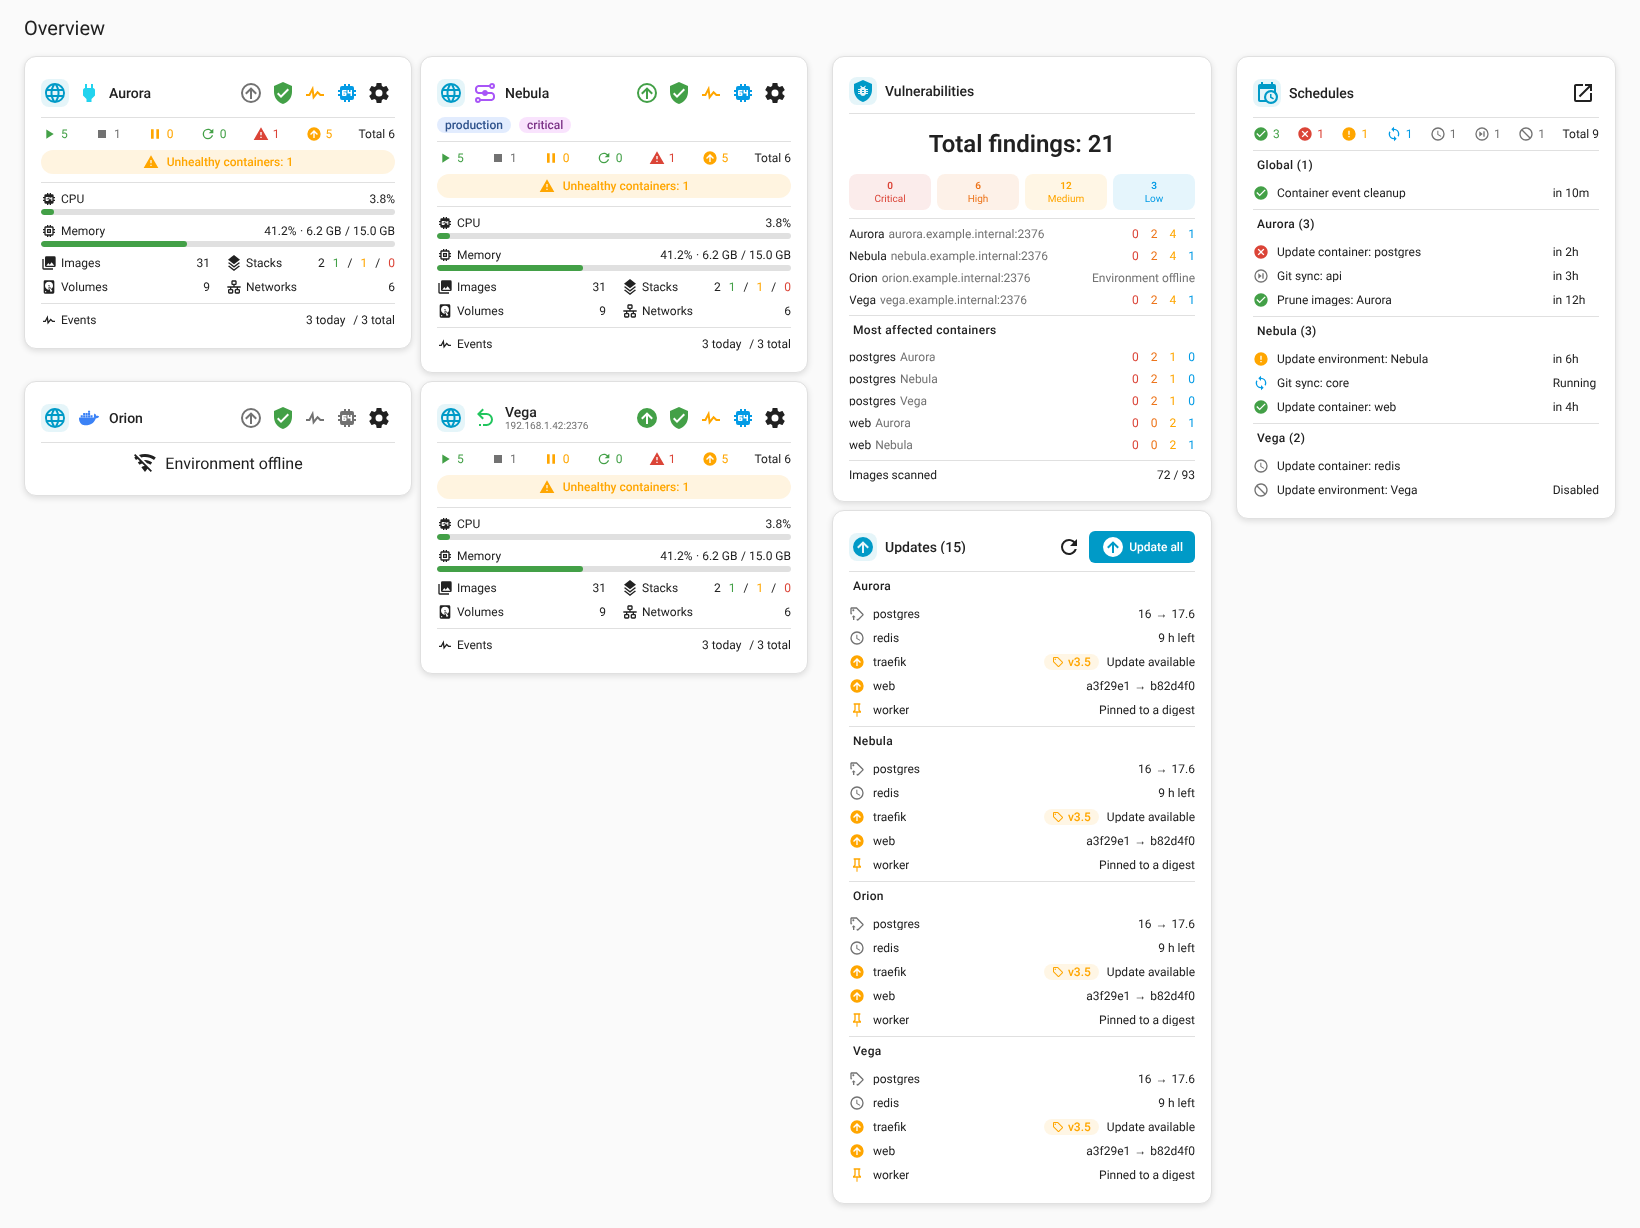
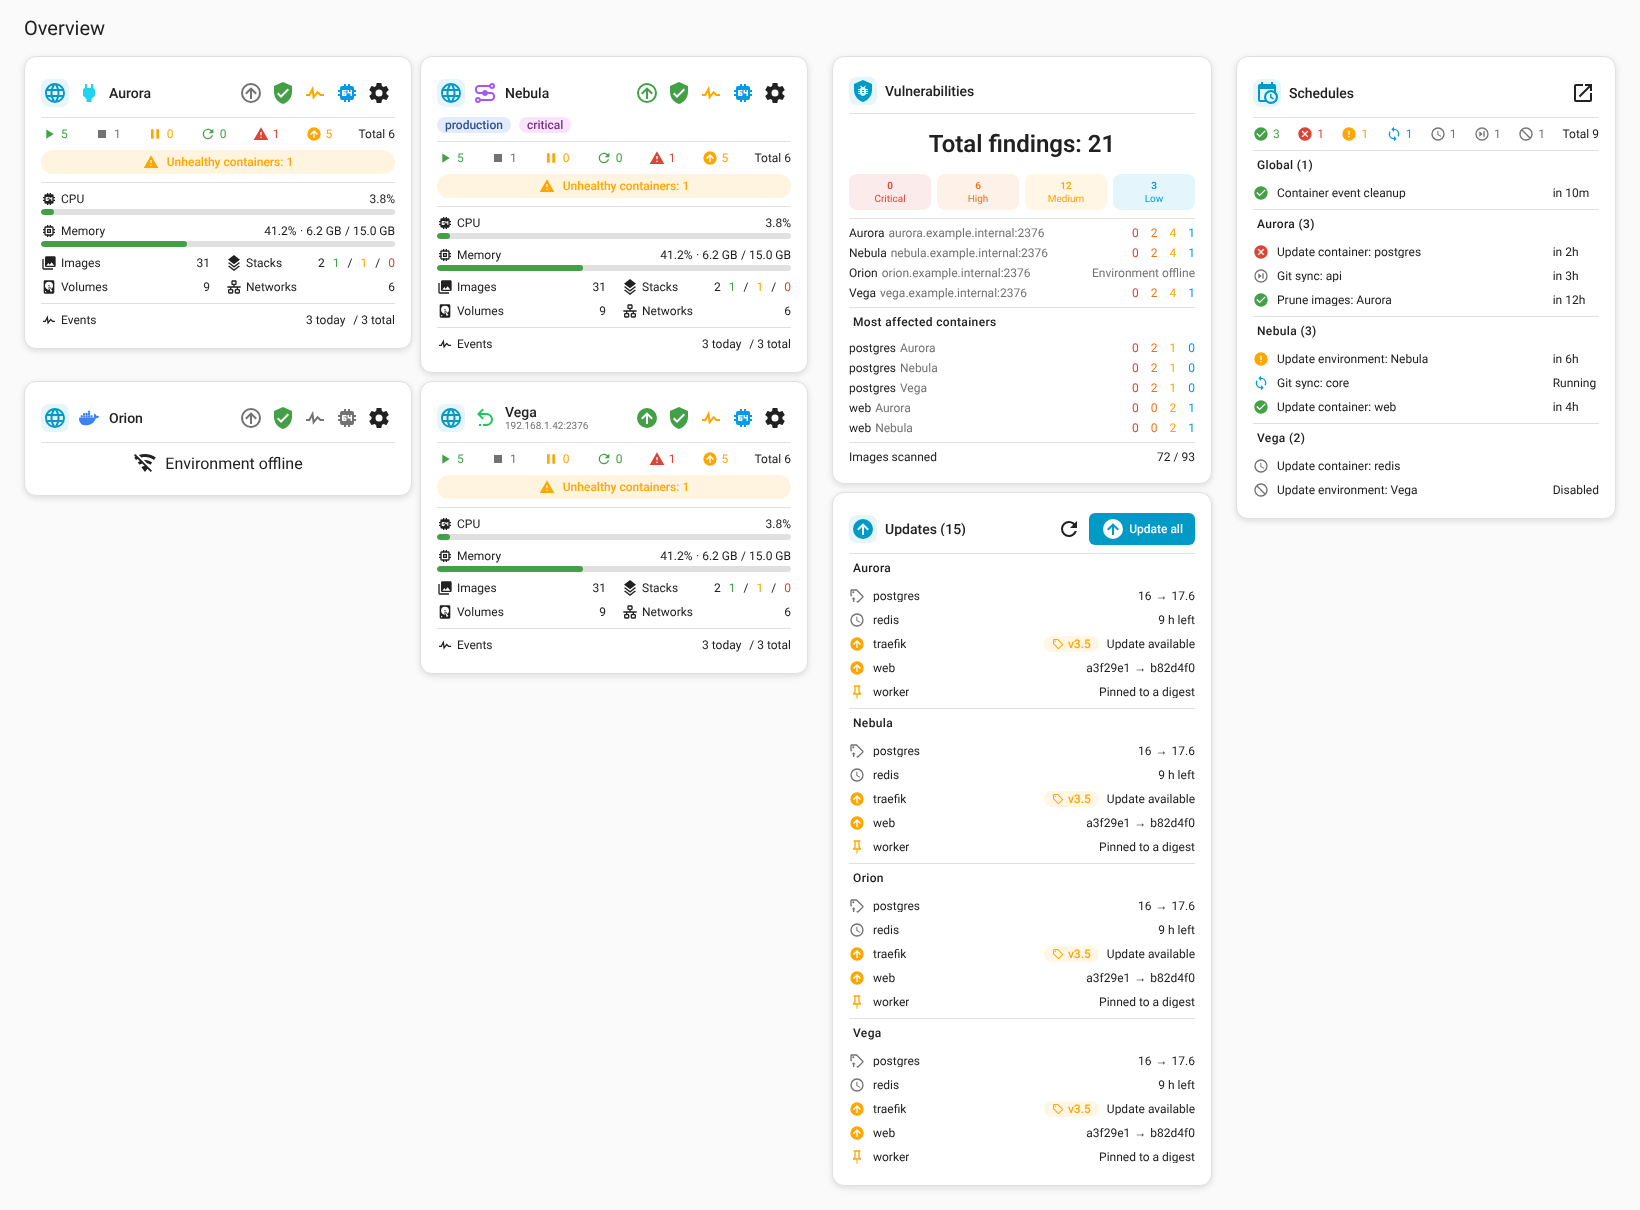
Keep clickable names clear of their highlight's rounded corner
A clickable truncated name (.clickable.truncate: the Vulnerability card's
rows, the Environment card's name) clipped its text to .clickable's 6px
corner, cutting off a glyph sitting in it: the tail of the "p" in
"postgres". Measured in the harness by toggling the radius: 12 of the
Vulnerability card's 21 row names lost pixels; a 3px radius still lost
some. The Environment card's name already avoided it with padding and a
matching negative margin; that is now the shared rule for every
clickable truncated name, so text stays put (measured: 0px), corners
fall in empty space and the radius stays consistent. Every other card
renders identically.

Reverts the earlier line-height change on the Vulnerability card's rows,
which didn't address it.

Claude-Session: https://claude.ai/code/session_01Y5FKGs81VJ4pZCobYPMcHj

diff --git a/src/dockhand-environment-card/styles.ts b/src/dockhand-environment-card/styles.ts
@@ -43,15 +43,10 @@ export const cardStyles = css`
   /* The environment name is a line-height:1 span — .clickable's 6px
    * border-radius is disproportionately large at that height (~40% of
    * half-height) and looks pill-shaped instead of a subtle rounded rect.
-   * It also causes overflow:hidden (from .truncate) to clip the first
-   * glyph at the curved corner.  Small padding + negative margin extends
-   * the hover footprint without shifting layout, and the lower border-
-   * radius gives proportions matching a header-icon or row element rather
-   * than a pill.  Scoped here (not in shared-styles) so the standard
-   * .clickable shape is unchanged everywhere else, including label-pill. */
+   * The lower radius gives proportions matching a header-icon or row
+   * element rather than a pill; the room around it comes from the shared
+   * .clickable.truncate rule. */
   .env-name.clickable {
-    padding: 2px 4px;
-    margin: -2px -4px;
     border-radius: 4px;
   }
   .breakdown .running {

diff --git a/src/common/shared-styles.ts b/src/common/shared-styles.ts
@@ -356,6 +356,15 @@ export const sharedStyles = css`
    * smaller element inside it) — matches the card's own, larger
    * theme-driven corner radius instead of .clickable's own fixed 6px,
    * which would give the hover overlay visibly mismatched corners. */
+  /* A truncated name that's clickable clips its text to its rounded
+   * corner too, cutting off a glyph sitting in it (the tail of a "p" at
+   * the start of a name). Room inside, taken back outside, keeps the text
+   * where it was and puts the corners clear of it; the hover background
+   * reaches a little past the text. */
+  .clickable.truncate {
+    padding: 2px 4px;
+    margin: -2px -4px;
+  }
   ha-card.clickable {
     border-radius: var(--ha-card-border-radius, 12px);
   }

diff --git a/src/dockhand-vulnerability-card/styles.ts b/src/dockhand-vulnerability-card/styles.ts
@@ -33,12 +33,6 @@ export const cardStyles = css`
     background: rgb(from var(--dockhand-severity-medium-color) r g b / 0.1);
     color: var(--dockhand-severity-medium-text-color);
   }
-  /* A row's name truncates, and .truncate's line-height 1 would clip the
-   * descenders of a name like "postgres" or "Vega". */
-  .env-row .row-icon.truncate,
-  .container-row .row-icon.truncate {
-    line-height: normal;
-  }
   .env-row .instance,
   .container-row .instance,
   .env-row .muted {

diff --git a/CHANGELOG.md b/CHANGELOG.md
@@ -17,7 +17,7 @@ and [Unreleased] is the notes of the current test build.
 
 ### Fixed
 
-- The Vulnerability card no longer clips the bottom of letters like g and p in environment names.
+- Names you can click no longer lose part of a letter to the rounded corner of their highlight (the tail of a "p" at the start of a name, as in the Vulnerability card's rows).
 
 ## [2.1.0] - 2026-11-20
 
